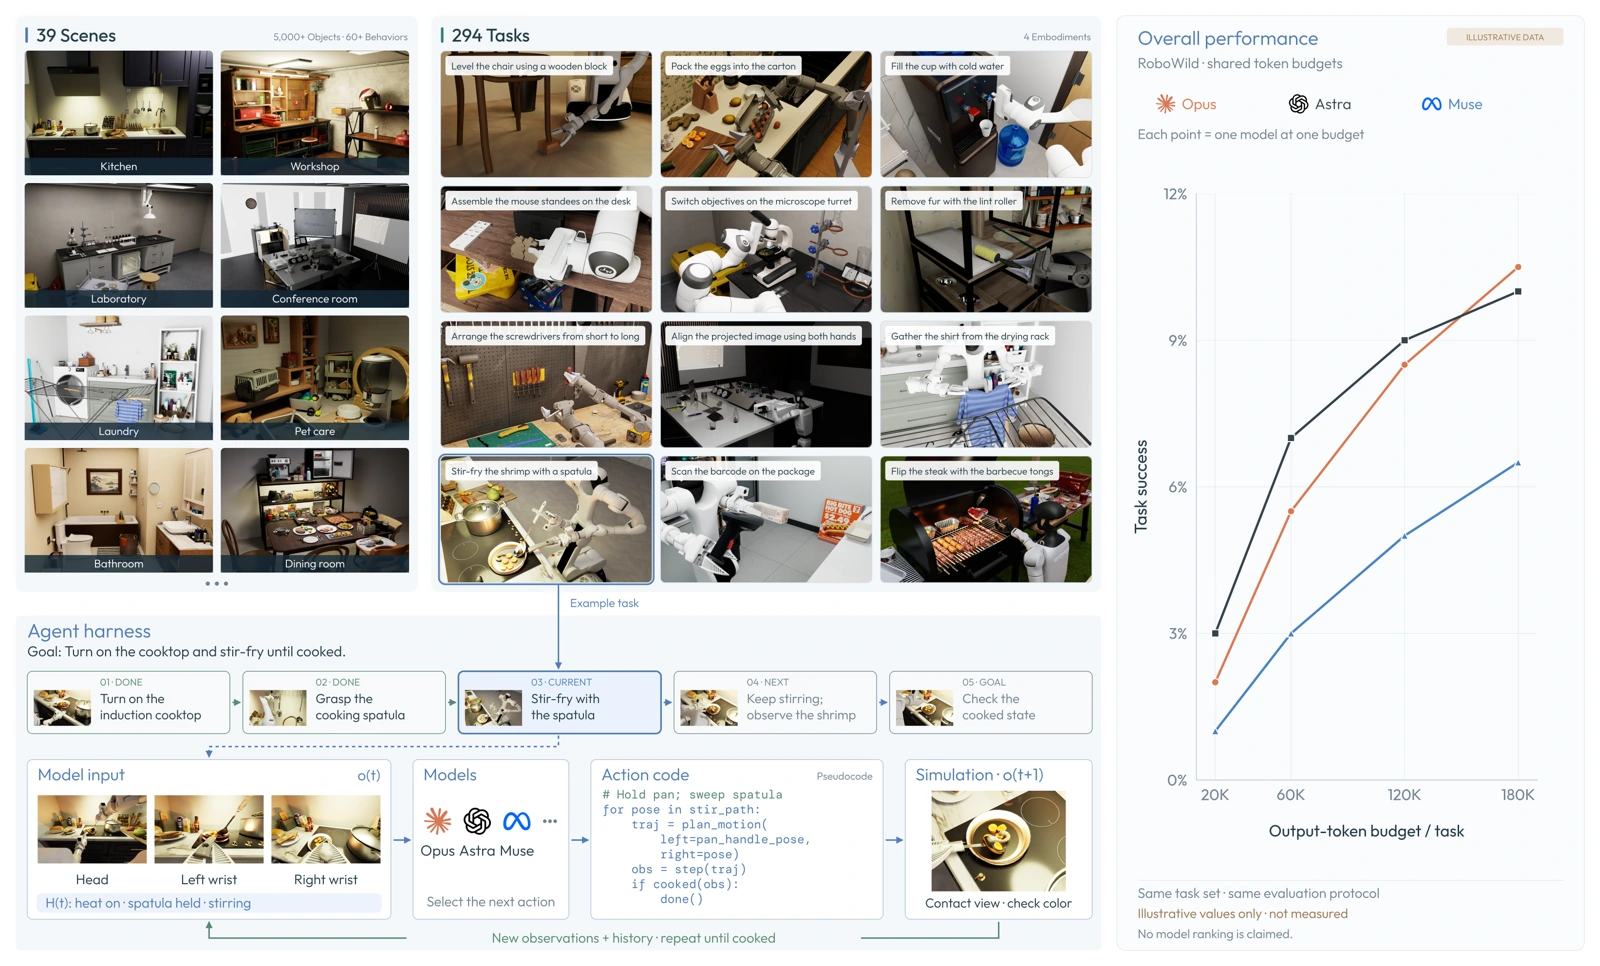
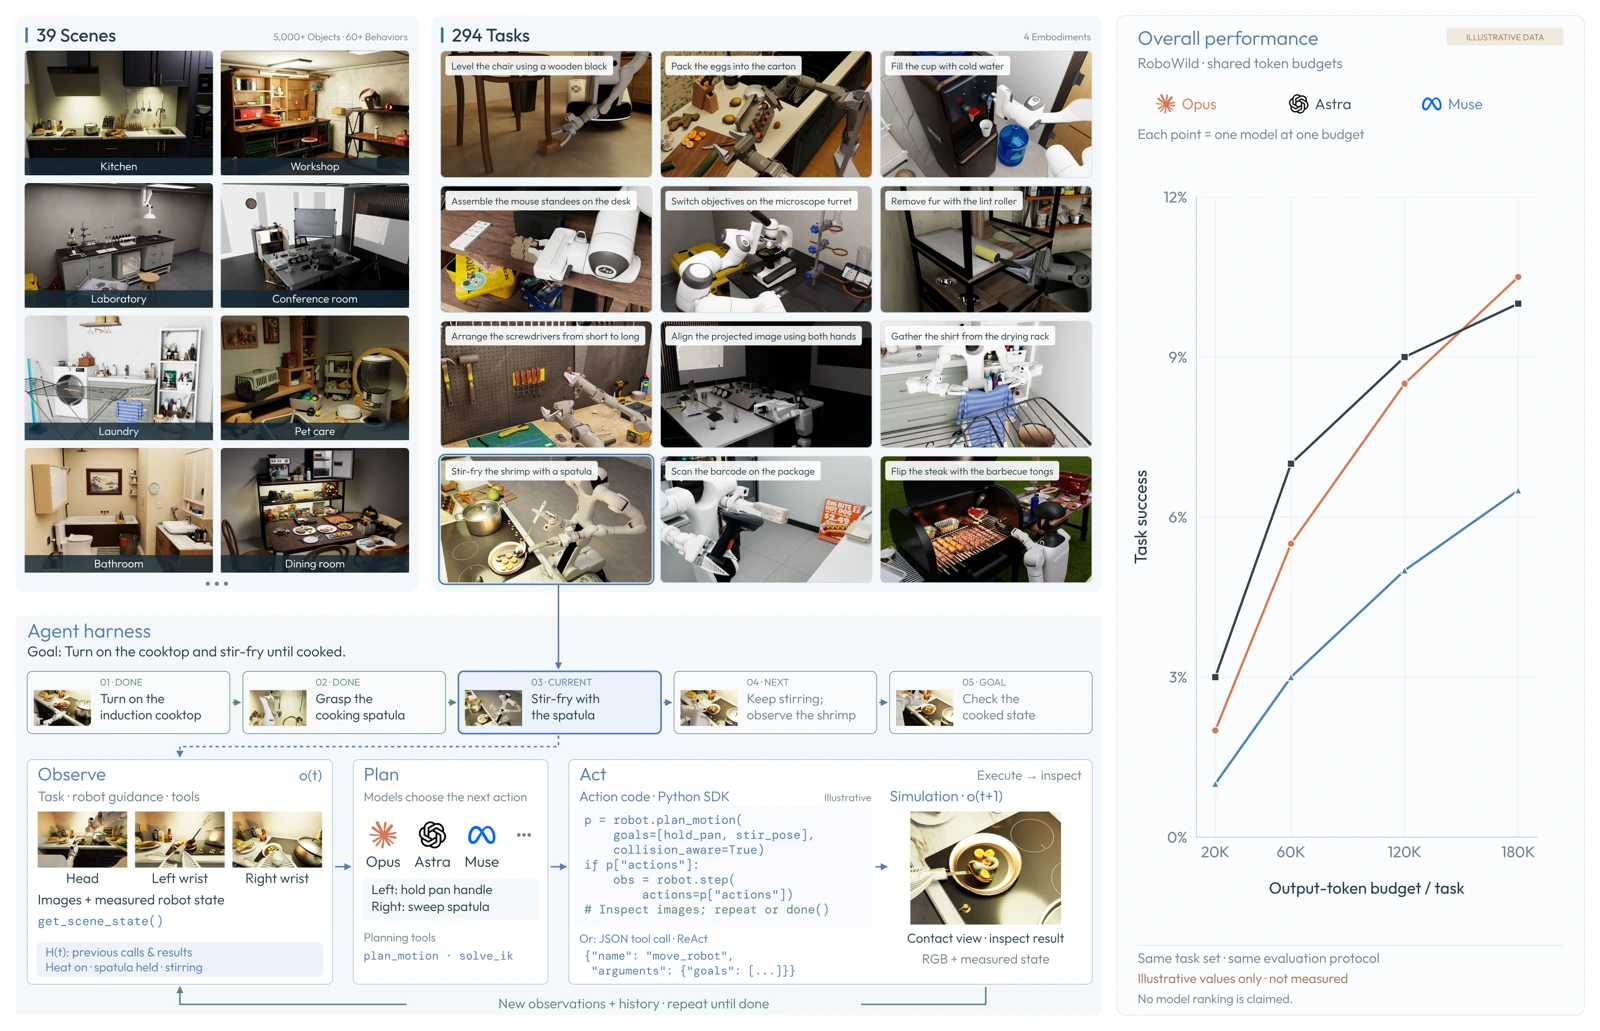
Publish A with Observe Plan Act harness

diff --git a/data.js b/data.js
@@ -1,1 +1,1 @@
[2 lines of base64/hex data omitted]

diff --git a/index.html b/index.html
@@ -1,4 +1,4 @@
 <!doctype html>
 <html lang="zh-CN"><head><meta charset="utf-8"><meta name="viewport" content="width=device-width,initial-scale=1"><meta name="description" content="RoboWild figure library. Current figures synchronized from Google Slides, with full-resolution PNG downloads."><title>RoboWild · Figure Library</title><link rel="stylesheet" href="style.css"></head>
 <body><header><a class="brand" href="./">Robo<span>Wild</span><small>FIGURE LIBRARY</small></a><div class="source"><span class="dot"></span>Google Slides 与衍生版本<small id="updated"></small></div></header>
-<main><aside><div class="list-heading"><h1>全部版本</h1><span id="count"></span></div><p class="hint">Slides 原稿 + 新增设计版本</p><nav id="versions" aria-label="图稿版本"></nav></aside><section class="viewer" aria-labelledby="title"><div class="viewer-heading"><div><p id="page-label" class="eyebrow"></p><h2 id="title"></h2><p id="dimensions" class="hint"></p></div><div class="actions"><a id="open" target="_blank" rel="noopener">打开原图 ↗</a><a id="download" class="primary" download>下载 PNG ↓</a></div></div><a id="image-link" target="_blank" rel="noopener" title="打开原尺寸 PNG"><img id="figure" alt="" width="3200" height="3390"></a><footer><span>原稿同步保留 · 衍生版本独立展示</span><span id="position"></span></footer></section></main><noscript>请启用 JavaScript 查看和切换全部图稿。</noscript><script src="data.js?v=e4964cb31004db5a"></script><script src="app.js?v=e4964cb31004db5a"></script></body></html>
+<main><aside><div class="list-heading"><h1>全部版本</h1><span id="count"></span></div><p class="hint">Slides 原稿 + 新增设计版本</p><nav id="versions" aria-label="图稿版本"></nav></aside><section class="viewer" aria-labelledby="title"><div class="viewer-heading"><div><p id="page-label" class="eyebrow"></p><h2 id="title"></h2><p id="dimensions" class="hint"></p></div><div class="actions"><a id="open" target="_blank" rel="noopener">打开原图 ↗</a><a id="download" class="primary" download>下载 PNG ↓</a></div></div><a id="image-link" target="_blank" rel="noopener" title="打开原尺寸 PNG"><img id="figure" alt="" width="3200" height="3390"></a><footer><span>原稿同步保留 · 衍生版本独立展示</span><span id="position"></span></footer></section></main><noscript>请启用 JavaScript 查看和切换全部图稿。</noscript><script src="data.js?v=02607071c0ef1ded"></script><script src="app.js?v=02607071c0ef1ded"></script></body></html>
